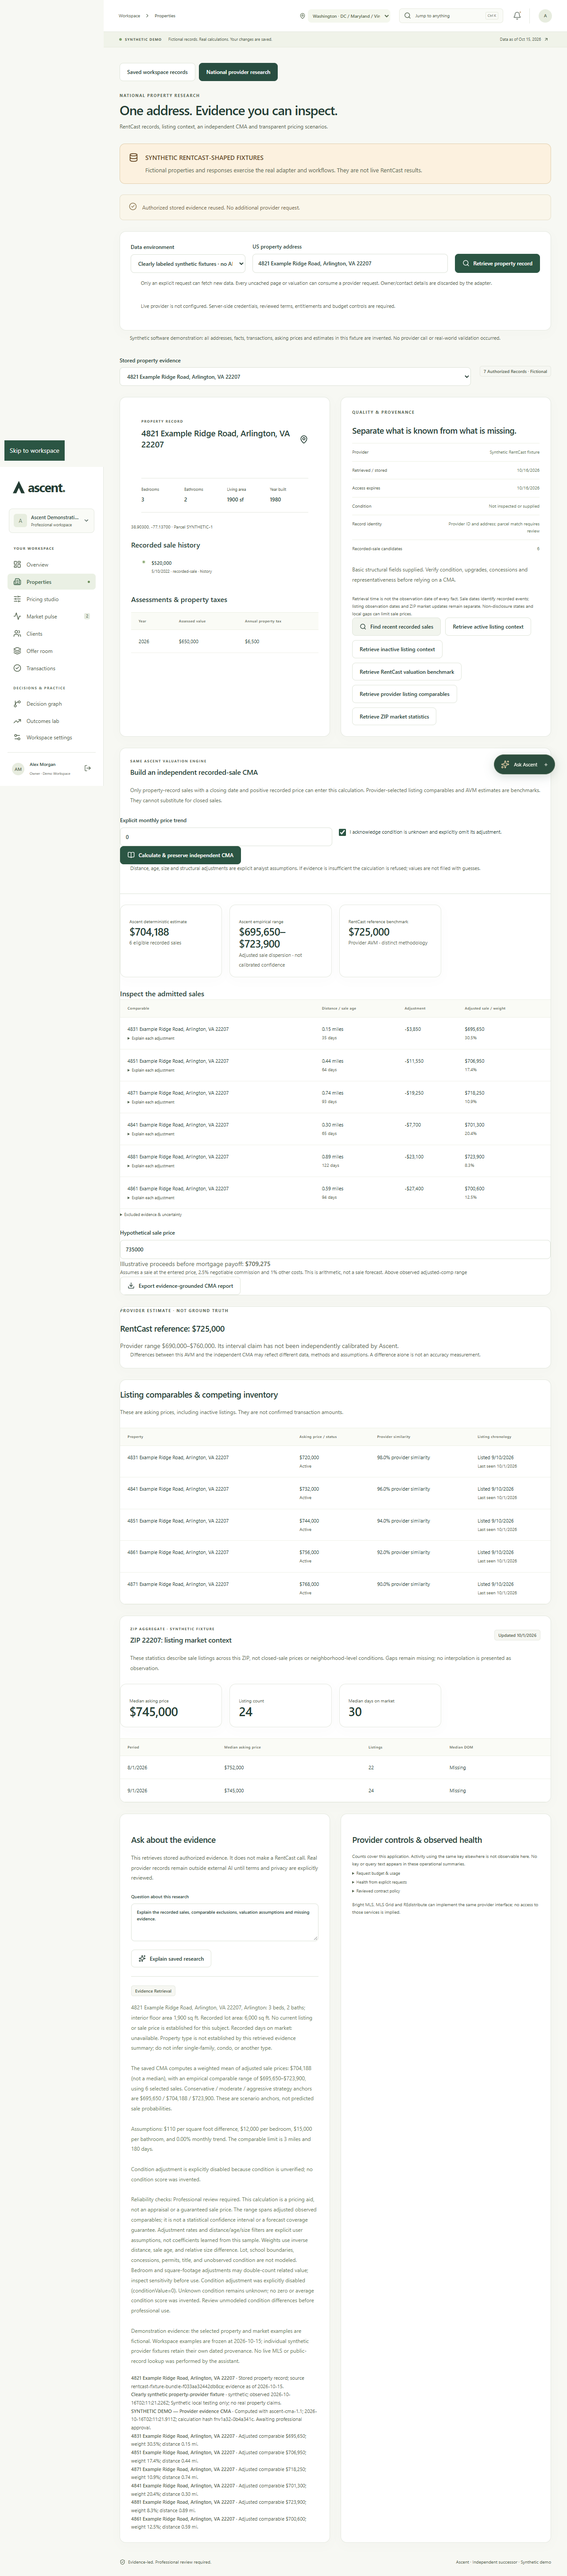
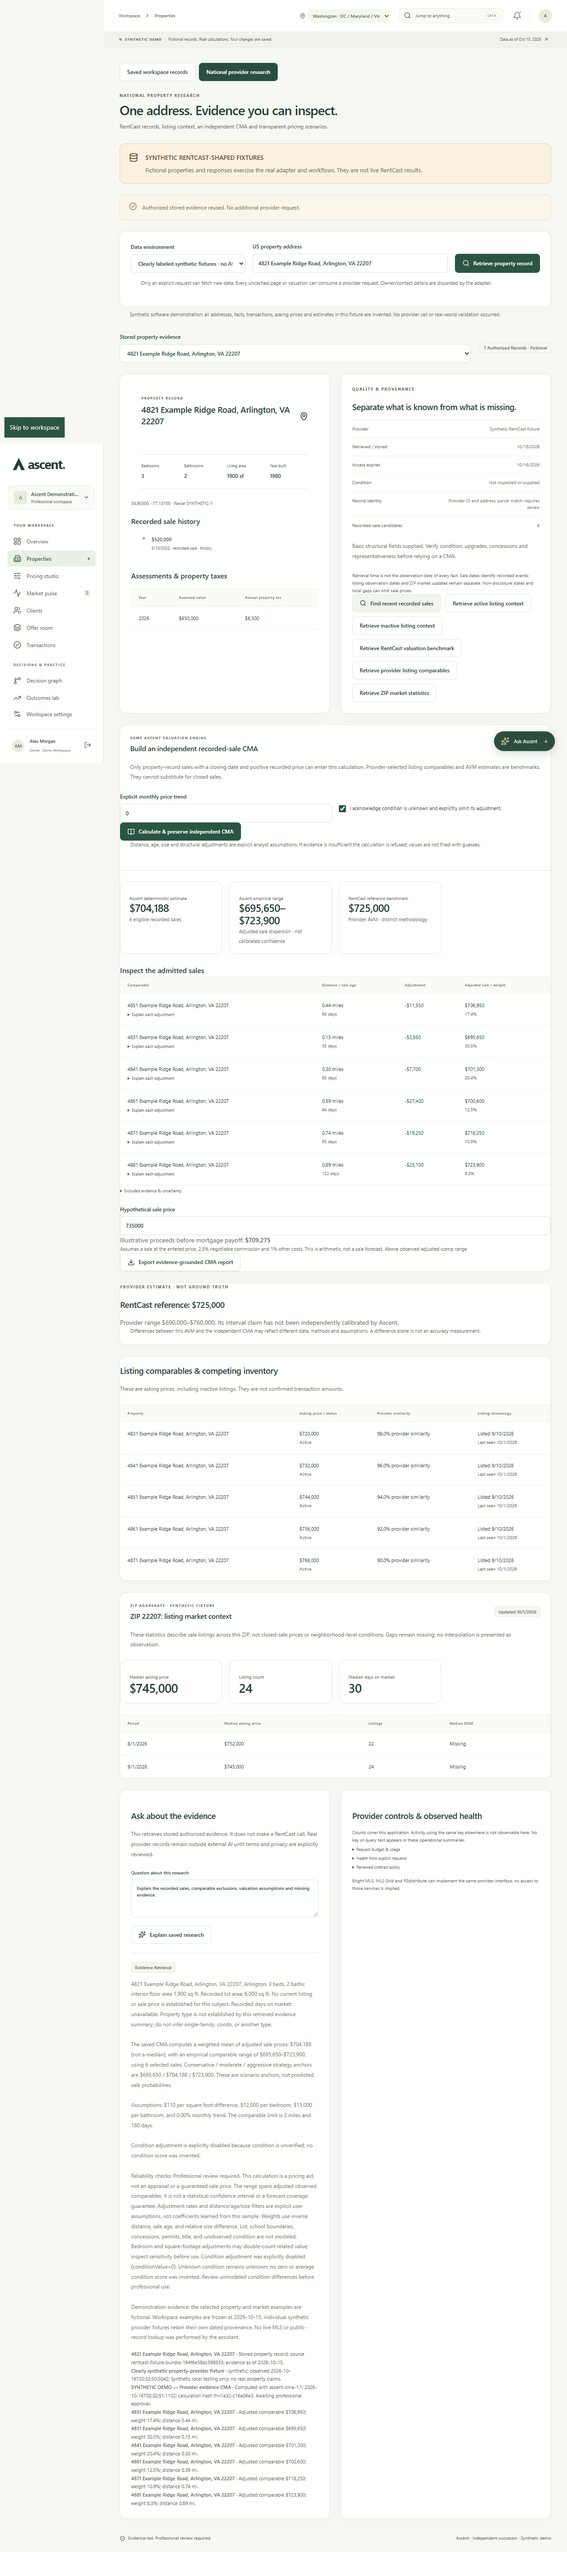
Prepare restricted RentCast access and prevent billable fixture lookups

diff --git a/src/components/property-research.tsx b/src/components/property-research.tsx
@@ -70,10 +70,10 @@ export function PropertyResearchView({ workspace, user, onWorkspace, onContext }
     <div className={`provider-mode-banner ${fixture ? 'fixture' : ''}`}><Database size={21}/><div><strong>{fixture ? 'SYNTHETIC RENTCAST-SHAPED FIXTURES' : 'RENTCAST · AUTHORIZED PROVIDER DATA'}</strong><p>{fixture ? 'Fictional properties and responses exercise the real adapter and workflows. They are not live RentCast results.' : 'Licensed national property data. This is not Bright MLS, an MLS-complete feed, or an inspected appraisal.'}</p></div></div>
     {error && <div className="error-box" role="alert">{error}</div>}{notice && <div className="intelligence-notice" role="status"><CheckCircle2 size={18}/><p>{notice}</p></div>}
     <section className="panel provider-search-panel"><form onSubmit={e => { e.preventDefault(); setSelectedId(''); setSavedId(''); setAnswer(null); void post('getProperty', { address }); }}>
-      <label>Data environment<select value={fixture ? 'fixture' : 'live'} onChange={e => { setFixture(e.target.value === 'fixture'); setSavedId(''); setAnswer(null); setSelectedId(''); setWarnings([]); }}><option value="fixture">Clearly labeled synthetic fixtures · no API spend</option><option value="live">Authorized live RentCast · explicit API requests</option></select></label>
-      <label>US property address<input value={address} onChange={e => setAddress(e.target.value)} required minLength={10} maxLength={250} placeholder="Street, City, State, ZIP" autoComplete="street-address"/></label>
+      <label>Data environment<select value={fixture ? 'fixture' : 'live'} disabled={busy} onChange={e => { const nextFixture = e.target.value === 'fixture'; setFixture(nextFixture); if (nextFixture) setAddress('4821 Example Ridge Road, Arlington, VA 22207'); else if (address === '4821 Example Ridge Road, Arlington, VA 22207') setAddress(''); setSavedId(''); setAnswer(null); setSelectedId(''); setWarnings([]); setNotice(''); setError(''); }}><option value="fixture">Clearly labeled synthetic fixtures · no API spend</option><option value="live">Authorized live RentCast · explicit API requests</option></select></label>
+      <label>US property address<input value={address} onChange={e => setAddress(e.target.value)} disabled={busy} required minLength={10} maxLength={250} placeholder="Street, City, State, ZIP" autoComplete="street-address"/></label>
       <button className="button primary" disabled={disabled || (!fixture && (!info?.configured || !info?.enabled))}>{busy ? <LoaderCircle className="spin" size={16}/> : <Search size={16}/>}Retrieve property record</button>
-    </form><p className="fine">Only an explicit request can fetch new data. Every uncached page or valuation can consume a provider request. Owner/contact details are discarded by the adapter.</p>{!info?.configured && <p className="fine">Live provider is not configured. Server-side credentials, reviewed terms, entitlements and budget controls are required.</p>}</section>
+    </form><p className="fine">Only an explicit request can fetch new data. Every uncached page or valuation can consume a provider request. Owner/contact details are discarded by the adapter.</p>{!info?.configured && <p className="fine">Live provider is not configured. Server-side credentials, reviewed terms, entitlements and budget controls are required.</p>}{!fixture && info?.configured && !info.enabled && <p className="fine" role="status">Live requests are not enabled yet. Finish provider activation and workspace access setup; no API request has been made by changing this selector.</p>}</section>
     {warnings.length > 0 && <ul className="caution-list">{warnings.map((w, i) => <li key={i}>{w}</li>)}</ul>}
     {records.length > 0 && <div className="provider-record-selector"><label>Stored property evidence<select value={record?.id || ''} onChange={e => { setSelectedId(e.target.value); setSavedId(''); setAnswer(null); }}>{records.map(r => <option value={r.record.id} key={r.record.id}>{r.record.address.formatted}</option>)}</select></label><span className="badge">{records.length} authorized records · {fixture ? 'fictional' : 'provider-supplied'}</span></div>}
     {record && <><div className="settings-grid section-space"><section className="panel"><div className="panel-heading"><div><span className="eyebrow">PROPERTY RECORD</span><h2>{record.address.formatted}</h2></div><MapPin size={20}/></div><div className="record-facts">{[['Bedrooms', record.facts.bedrooms], ['Bathrooms', record.facts.bathrooms], ['Living area', record.facts.squareFootage === undefined ? undefined : `${record.facts.squareFootage} sf`], ['Year built', record.facts.yearBuilt]].map(([k, v]) => <div key={String(k)}><span>{k}</span><strong>{v ?? 'Not supplied'}</strong></div>)}</div><p className="fine">{record.location ? `${record.location.latitude.toFixed(5)}, ${record.location.longitude.toFixed(5)}` : 'Coordinates not supplied'} · Parcel {record.assessorId || 'not supplied'}</p><h3>Recorded sale history</h3>{record.sales.length ? <ol className="timeline">{record.sales.map((sale, i) => <li key={i}><span className="timeline-dot"/><div><strong>{money(sale.price)}</strong><small>{when(sale.date)} · {sale.kind} · {sale.sourceField}</small></div></li>)}</ol> : <p className="body-note">No recorded sale history supplied. An inactive listing does not establish a closing or sale price.</p>}<h3>Assessments & property taxes</h3><AssessmentTable record={record}/></section>

diff --git a/tests/e2e/provider.spec.ts b/tests/e2e/provider.spec.ts
@@ -1,6 +1,22 @@
 import { test, expect } from '@playwright/test';
 import { writeFile } from 'node:fs/promises';
 
+test('switching to live research does not submit a fictional address or fetch provider data', async ({ page }) => {
+  let providerPosts = 0;
+  page.on('request', request => { if (request.method() === 'POST' && request.url().endsWith('/api/providers/property')) providerPosts++; });
+  await page.goto('/'); await page.getByRole('button', { name: 'Explore the working demo' }).click();
+  await page.getByRole('navigation', { name: 'Main navigation' }).getByRole('button', { name: 'Properties', exact: true }).click();
+  await page.getByRole('button', { name: 'National provider research', exact: true }).click();
+  await expect(page.getByLabel('US property address', { exact: true })).toHaveValue('4821 Example Ridge Road, Arlington, VA 22207');
+  await page.getByRole('combobox', { name: /^Data environment/ }).selectOption('live');
+  await expect(page.getByLabel('US property address', { exact: true })).toHaveValue('');
+  await expect(page.getByText('RENTCAST · AUTHORIZED PROVIDER DATA', { exact: true })).toBeVisible();
+  expect(providerPosts).toBe(0);
+  await page.getByRole('combobox', { name: /^Data environment/ }).selectOption('fixture');
+  await expect(page.getByLabel('US property address', { exact: true })).toHaveValue('4821 Example Ridge Road, Arlington, VA 22207');
+  expect(providerPosts).toBe(0);
+});
+
 test('RentCast-shaped fixture: address to recorded-sales CMA, benchmark, ZIP context, copilot and report', async ({ page }) => {
   await page.route('**/api/assistant', async route => { await route.continue({ postData: JSON.stringify({ ...route.request().postDataJSON(), mode: 'evidence' }) }); });
   const errors: string[] = []; page.on('pageerror', e => errors.push(e.message));

diff --git a/docs/rentcast-integration.md b/docs/rentcast-integration.md
@@ -1,6 +1,6 @@
 # RentCast integration: implementation and validation
 
-RentCast is the first implemented national commercial property-provider adapter. No RentCast key was supplied, so **no live RentCast request or real-address acceptance test was performed**. The complete application workflow has been exercised with fictional, schema-shaped fixtures. This does not establish live coverage, data accuracy, current billing, provider reliability or competitive superiority.
+RentCast is the first implemented national commercial property-provider adapter. A dedicated key named **Project Ascent local development** was created with the owner's explicit confirmation and stored only in the ignored server environment. It is restricted to `/properties`, `/listings/sale`, `/avm/value` and `/markets`. RentCast currently labels it **Inactive** because the account's API subscription is not activated. No billing subscription was activated by the agent, and **no live RentCast request or real-address acceptance test has been performed**. The complete application workflow has been exercised with fictional, schema-shaped fixtures. See [setup status](../evidence/rentcast-setup.json); key possession alone does not establish live coverage, data accuracy, active entitlement or provider reliability.
 
 ## Architecture and the working path
 
@@ -44,6 +44,8 @@ RentCast data remains labeled licensed-provider data. A reviewed contract can al
 ## Cost, cache and operational behavior
 
 RentCast documents 50 included Developer requests, overages after the allowance, and no provider-side hard request cap. Billing cycles follow the account renewal date. Verify the actual account and remaining allowance before enabling live calls. [Official billing guidance](https://developers.rentcast.io/reference/billing-and-pricing).
+
+The October 15 local dashboard showed the Developer plan at $0/month with 50 included requests and $0.20 for each overage request; activation required a card and API terms acceptance. The local application is initially capped at **10 live requests/month** across the configured key, with matching per-user/tenant caps and concurrency one. A $0.20 per-attempt reserve and $2 monthly reserve conservatively enforce that cap; they are **not charges** for included requests. Other applications using this account can consume its included allowance. The integration remains disabled pending actual subscription activation and the reviewed workspace-use configuration. Merely changing the research selector makes no API request; the fictional fixture address is cleared before live entry.
 
 Ascent uses atomic application-wide counters bound to the configured key, plus tenant and user monthly limits, a global conservative spend reserve, controlled concurrency, expiring request leases, identical-request coalescing and tenant-scoped authorized caches. Cache and fixture/live keys are separate. Budget alerts begin at the configured warning percentage. Status exposes counts, conservative estimated reserves and measured request outcomes/latencies without query text. Reserves round upward to cents and are retained on failed/uncertain attempts; this can stop requests earlier than actual provider billing.
 

diff --git a/docs/capability-matrix.md b/docs/capability-matrix.md
@@ -17,7 +17,7 @@ Later directives are implemented through the same application. The following add
 | Migration and portability | Authorized CSV mapping/preview/conflicts/confirmation, idempotency, source-aware export and bounded rollback; migration and browser tests | Supported formats only; no private vendor scraping, automatic CRM connection or full account erasure |
 | Evidence-driven development | Opt-in aggregate metrics, proven workflow completion, stable reversible UI flags and explicit priority assumptions | No retention, causal time savings, winning experiment or customer value claimed |
 | Groq-first assistance | 20B/120B routing, read-only tools, structured paragraph references, stream handling, current-rights retrieval, quota/spend reservations and telemetry; mocked regressions and successful complete live paths for both models | Synthetic-only smoke; prior failures retained; known semantic errors escape validators. No expert-quality, reliability or competitive cost/speed superiority established |
-| RentCast research | Four documented endpoint adapters, normalized quality/provenance, authorized cache, global/user/tenant caps, recorded-sale CMA and ZIP/AVM comparison; complete fixture browser workflow | No RentCast key/live test. Listing asking prices are not recorded sales. Real provider evidence blocked from external inference until source-specific review |
+| RentCast research | Four documented endpoint adapters, normalized quality/provenance, authorized cache, global/user/tenant caps, recorded-sale CMA and ZIP/AVM comparison; complete fixture browser workflow; restricted key now stored server-side | Key inactive pending account API plan activation; no successful live test. Listing asking prices are not recorded sales. Real provider evidence blocked from external inference until source-specific review |
 
 See [RentCast integration](rentcast-integration.md), [AI architecture](ai-architecture.md), [professional portability](professional-portability.md) and [validation targets](competitive-advantage-validation.md).
 

diff --git a/docs/verification-results.md b/docs/verification-results.md
@@ -60,6 +60,6 @@ After building, `node --env-file=.env.local scripts/verify-build.mjs` checks com
 
 ## What remains unverified
 
-No RentCast key, authorized production PostgreSQL connection, deployed Vercel project, real Stripe sandbox account, license-verification feed, MLS contract, actual expert participation or destination Git remote was supplied. RentCast tests use invented fixtures/mocked HTTP, not recorded live responses. Source contracts, full retention/deletion across backups, per-member professional eligibility, email verification/recovery/MFA, distributed ingestion scale and operational incident/backup procedures remain production gates. [Prioritized remaining work](remaining-work.md).
+A restricted RentCast key is now installed server-side, but RentCast marks it inactive pending API subscription activation; no live call is verified. The two focused provider browser tests passed after adding a no-request environment-switch regression. No authorized production PostgreSQL connection, deployed Vercel project, real Stripe sandbox account, license-verification feed, MLS contract, actual expert participation or destination Git remote was supplied. RentCast tests use invented fixtures/mocked HTTP, not recorded live responses. Source contracts, full retention/deletion across backups, per-member professional eligibility, email verification/recovery/MFA, distributed ingestion scale and operational incident/backup procedures remain production gates. [Prioritized remaining work](remaining-work.md).
 
 No real property outcome, customer, endorsement, causal time saving, voluntary retention or superiority over Homesolo is claimed. The working local application is a substantial production-oriented foundation with documented live-data, operational and AI-validation blockers.

diff --git a/docs/remaining-work.md b/docs/remaining-work.md
@@ -62,4 +62,4 @@ The repository contains real source, local persistence, synthetic fixtures, migr
 
 ## Continuations III?V checkpoint
 
-Domain rules, layered triage, Academy/support queues, authorized CSV migration/rollback, aggregate opt-in metrics, stable feature variations, Groq routing/budgets and the four-endpoint RentCast adapter are implemented. See competitive-advantage-validation.md, professional-portability.md, ai-architecture.md and rentcast-integration.md. These close portions of the earlier roadmap but do not establish licensed coverage or expert-reviewed correctness. RentCast tests use invented fixtures/mocked HTTP; no RentCast key was supplied. Live Groq attempts and final executed checks are recorded separately in verification-results.md.
+Domain rules, layered triage, Academy/support queues, authorized CSV migration/rollback, aggregate opt-in metrics, stable feature variations, Groq routing/budgets and the four-endpoint RentCast adapter are implemented. See competitive-advantage-validation.md, professional-portability.md, ai-architecture.md and rentcast-integration.md. These close portions of the earlier roadmap but do not establish licensed coverage or expert-reviewed correctness. RentCast tests use invented fixtures/mocked HTTP; a restricted key is now installed but remains inactive until the owner activates an API subscription. Live Groq attempts and executed checks are recorded separately in verification-results.md.
